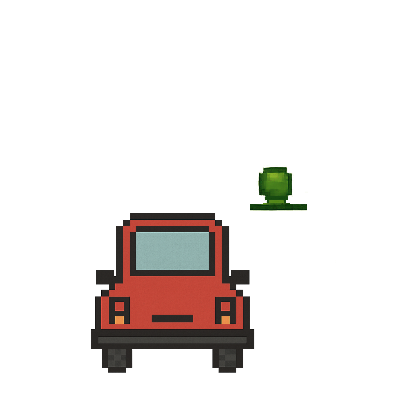
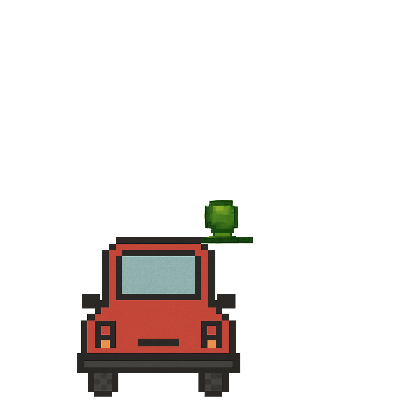
Up方向の植物追加

Changed region(s): [[0.18, 0.48, 0.66, 1.0], [0.63, 0.42, 0.78, 0.54]]

diff --git a/DxLib_TGS2025/Src/Object/car.cpp b/DxLib_TGS2025/Src/Object/car.cpp
@@ -117,6 +117,25 @@ void CarResourceInit(void)
 	// GameOverの食虫植物の画像
 	LoadDivGraph("Resource/images/PlantAnim_L.png", 19, 4, 5, 400, 400, car.ivy_anim_left);    // 左
 	LoadDivGraph("Resource/images/PlantAnim_R.png", 19, 4, 5, 400, 400, car.ivy_anim_right);   // 右
+	car.ivy_anim_up[0] = LoadGraph("Resource/images/PlantAnim0_U.png");
+	car.ivy_anim_up[1] = LoadGraph("Resource/images/PlantAnim1_U.png");
+	car.ivy_anim_up[2] = LoadGraph("Resource/images/PlantAnim2_U.png");
+	car.ivy_anim_up[3] = LoadGraph("Resource/images/PlantAnim3_U.png");
+	car.ivy_anim_up[4] = LoadGraph("Resource/images/PlantAnim4_U.png");
+	car.ivy_anim_up[5] = LoadGraph("Resource/images/PlantAnim5_U.png");
+	car.ivy_anim_up[6] = LoadGraph("Resource/images/PlantAnim6_U.png");
+	car.ivy_anim_up[7] = LoadGraph("Resource/images/PlantAnim7_U.png");
+	car.ivy_anim_up[8] = LoadGraph("Resource/images/PlantAnim8_U.png");
+	car.ivy_anim_up[9] = LoadGraph("Resource/images/PlantAnim9_U.png");
+	car.ivy_anim_up[10] = LoadGraph("Resource/images/PlantAnim10_U.png");
+	car.ivy_anim_up[11] = LoadGraph("Resource/images/PlantAnim11_U.png");
+	car.ivy_anim_up[12] = LoadGraph("Resource/images/PlantAnim12_U.png");
+	car.ivy_anim_up[13] = LoadGraph("Resource/images/PlantAnim13_U.png");
+	car.ivy_anim_up[14] = LoadGraph("Resource/images/PlantAnim14_U.png");
+	car.ivy_anim_up[15] = LoadGraph("Resource/images/PlantAnim15_U.png");
+	car.ivy_anim_up[16] = LoadGraph("Resource/images/PlantAnim16_U.png");
+	car.ivy_anim_up[17] = LoadGraph("Resource/images/PlantAnim17_U.png");
+	car.ivy_anim_up[18] = LoadGraph("Resource/images/PlantAnim18_U.png");
 	car.ivy_se= LoadSoundMem("Resource/Sounds/ivy_se.mp3");                                    // 音
 
 	car.lake_right_anim[0] = LoadGraph("Resource/images/car_inR_lake0.png");
@@ -817,8 +836,8 @@ void CarWarnUpdate(const Goal*goal,const GameOver*gameover,const InGame*ingame)
 		 switch (car.old_direction)
 		 {
 		 case eUp:
-			 DrawRotaGraphF(carx, cary, 1.0, 0.0, gameover.circle, TRUE);
-			 DrawRotaGraphF(carx - 14, cary - 44, 0.4, 0.0, car.ivy_anim_up[car.ivy_num], TRUE);
+			 DrawRotaGraphF(carx+18 , cary, 1.0, 0.0, gameover.circle, TRUE);
+			 DrawRotaGraphF(carx+18, cary - 55, 0.4, 0.0, car.ivy_anim_up[car.ivy_num], TRUE);
 			 break;
 		 case eDown:
 			 DrawRotaGraphF(carx, cary, 1.0, 0.0, gameover.circle, TRUE);
